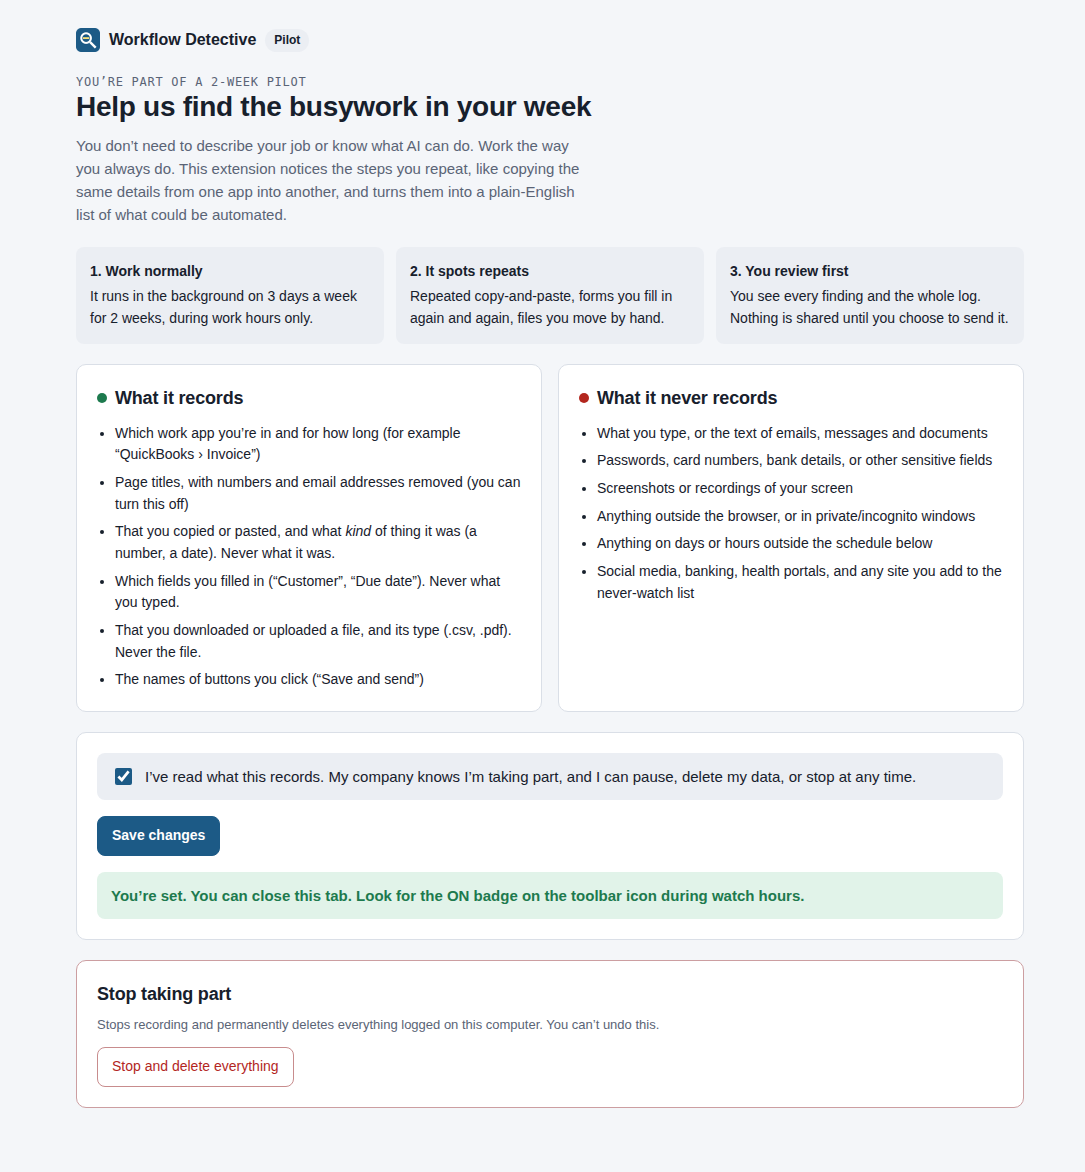
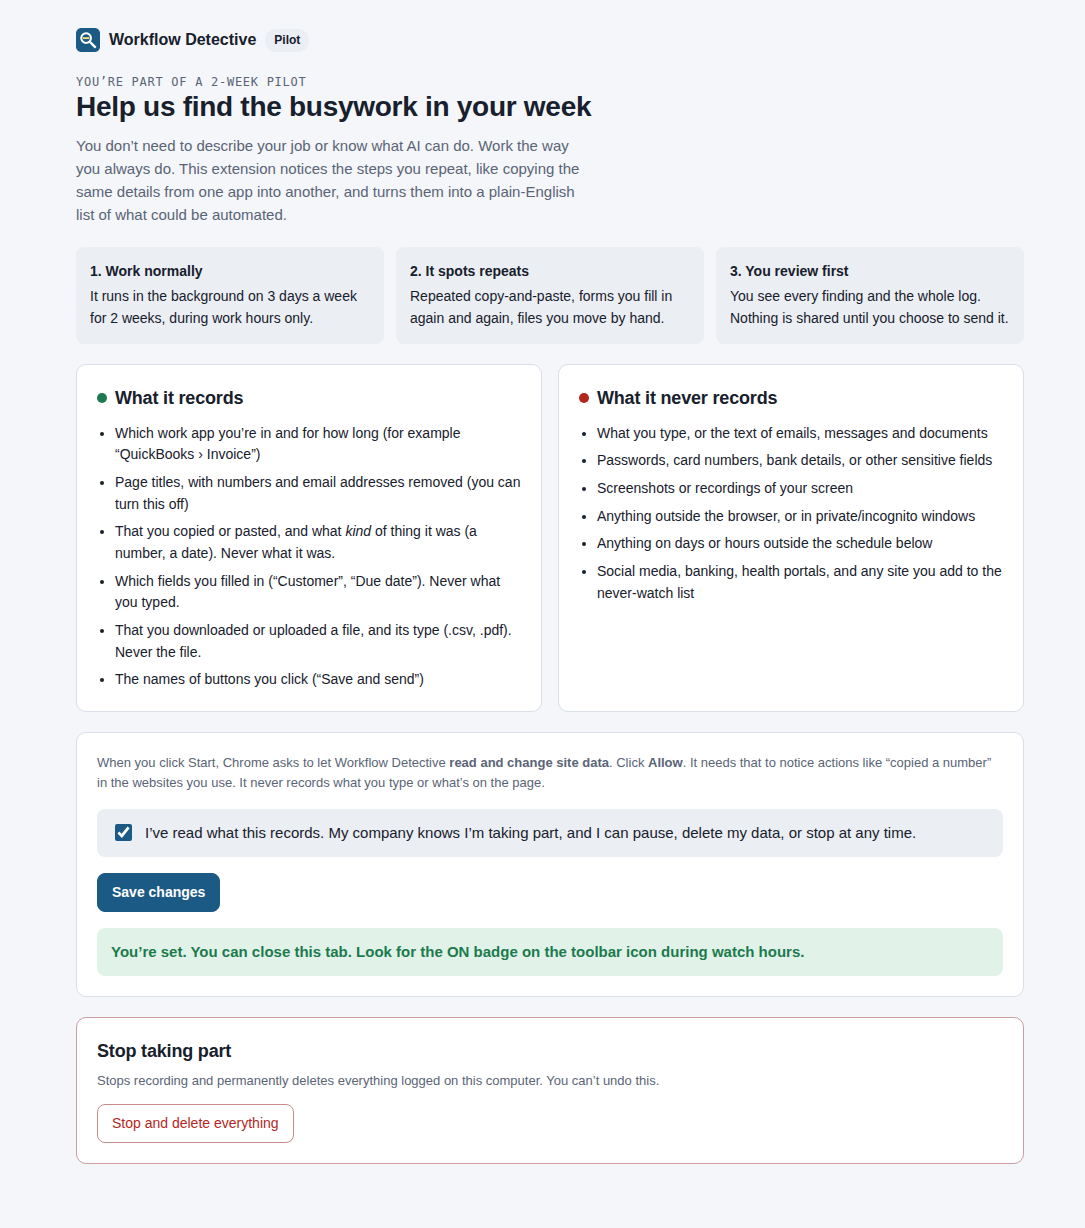
Extension 0.3.0: ask for website access at Start instead of at install
The Chrome Web Store flagged broad host permissions for in-depth review. The
extension now installs with access to the pilot's setup page only, and asks
for access to other sites (optional host permissions) when the participant
clicks Start the study. If access is declined or removed, the icon shows a
red ! and the popup offers to allow it.

Claude-Session: https://claude.ai/code/session_01U78aBsdTCyoXJNvWY7dBA2

diff --git a/test/e2e.js b/test/e2e.js
@@ -5,7 +5,13 @@
 const { chromium } = require("playwright");
 const http = require("http"), fs = require("fs"), path = require("path"), os = require("os");
 
-const EXT = path.resolve(__dirname, "../extension");
+const EXT_SRC = path.resolve(__dirname, "../extension");
+// Chrome's "Allow access to all sites" prompt can't be clicked in automation, so the test runs a copy of the extension
+// whose manifest already has that access (as if the participant clicked Allow). The shipped manifest is checked below.
+const EXT = fs.mkdtempSync(path.join(os.tmpdir(), "wd-ext-"));
+fs.cpSync(EXT_SRC, EXT, { recursive: true });
+{ const m = JSON.parse(fs.readFileSync(path.join(EXT, "manifest.json"), "utf8")); m.host_permissions = m.host_permissions.concat(m.optional_host_permissions); fs.writeFileSync(path.join(EXT, "manifest.json"), JSON.stringify(m)); }
+const SHIPPED = JSON.parse(fs.readFileSync(path.join(EXT_SRC, "manifest.json"), "utf8"));
 const SITE = path.resolve(__dirname, "site");
 const SECRET = "TYPED-SECRET-9431";
 const results = []; const ok = (name, cond, extra) => { results.push([cond ? "✓" : "✗", name, extra || ""]); };
@@ -35,6 +41,11 @@ const server = http.createServer((req, res) => {
     if (!sw) sw = await ctx.waitForEvent("serviceworker", { timeout: 15000 });
     const id = new URL(sw.url()).host;
     ok("extension loads and its background worker starts", !!id, id);
+    const broad = x => /^(\*|<all_urls>|https?:\/\/\*\/)/.test(x) || x.startsWith("*://*/");
+    ok("shipped manifest: no access to every site at install, only the pilot's setup page", !SHIPPED.host_permissions.some(broad) && !SHIPPED.content_scripts.some(c => c.matches.some(broad)) && SHIPPED.optional_host_permissions.some(broad), JSON.stringify(SHIPPED.host_permissions));
+    await new Promise(r => setTimeout(r, 800));
+    const reg = await sw.evaluate(async () => (await chrome.scripting.getRegisteredContentScripts()).map(c => c.id));
+    ok("once website access is allowed, the page script is registered for all sites", reg.includes("wd-sites"), JSON.stringify(reg));
 
     // 1. onboarding opens on install; complete it through the real form
     let ob = ctx.pages().find(p => p.url().includes("onboarding.html"));
@@ -55,6 +66,7 @@ const server = http.createServer((req, res) => {
     await ob.bringToFront();
     const prev = await ob.textContent("#preview");
     ok("schedule preview lists the watch days", /watch days/.test(prev), prev.slice(0, 80));
+    ok("setup explains Chrome's website-access prompt before Start", await ob.isVisible("#accessNote") && /Allow/.test(await ob.textContent("#accessNote")));
     await ob.check("#consent");
     await ob.click("#save");
     await ob.waitForSelector("#saved:not([hidden])", { timeout: 5000 });
@@ -156,6 +168,25 @@ const server = http.createServer((req, res) => {
     await rep.bringToFront(); await rep.reload(); await rep.waitForSelector("#tiles .tile");
     await rep.setViewportSize({ width: 1100, height: 900 });
     await ob.bringToFront(); await ob.setViewportSize({ width: 1100, height: 900 }); await ob.screenshot({ path: path.resolve(__dirname, "../samples/onboarding.png"), fullPage: true });
+    await ctx.close();
+
+    // 2. the shipped extension as installed from the store, before the participant clicks Allow
+    const ctx2 = await chromium.launchPersistentContext(fs.mkdtempSync(path.join(os.tmpdir(), "wd-e2e2-")), {
+      headless: false, args: [`--disable-extensions-except=${EXT_SRC}`, `--load-extension=${EXT_SRC}`]
+    });
+    try {
+      let [sw2] = ctx2.serviceWorkers();
+      if (!sw2) sw2 = await ctx2.waitForEvent("serviceworker", { timeout: 15000 });
+      const id2 = new URL(sw2.url()).host;
+      await new Promise(r => setTimeout(r, 800));
+      const before = await sw2.evaluate(async () => ({ all: await chrome.permissions.contains({ origins: ["https://example.com/*"] }), setup: await chrome.permissions.contains({ origins: ["https://tejas957.github.io/*"] }), reg: (await chrome.scripting.getRegisteredContentScripts()).length }));
+      ok("shipped extension installs with access to the setup page only", !before.all && before.setup && before.reg === 0, JSON.stringify(before));
+      await sw2.evaluate(async () => { const { settings } = await chrome.storage.local.get("settings"); await chrome.storage.local.set({ settings: Object.assign({}, settings, { consented: true, startDate: "2026-10-12" }) }); });
+      await new Promise(r => setTimeout(r, 800));
+      ok("set up without website access → red ! on the toolbar icon", (await sw2.evaluate(() => chrome.action.getBadgeText({}))) === "!");
+      const pop2 = await ctx2.newPage(); await pop2.goto(`chrome-extension://${id2}/popup.html`); await pop2.waitForTimeout(500);
+      ok("…and the popup offers ‘Allow website access’", await pop2.isVisible("#access") && await pop2.isVisible("#allow"));
+    } finally { await ctx2.close(); }
   } catch (e) {
     ok("test ran without crashing", false, e.stack);
   } finally {

diff --git a/extension/background.js b/extension/background.js
@@ -110,6 +110,30 @@ async function takeInvite(code) {
   if (open.length) await chrome.tabs.update(open[0].id, { active: true });
   else await chrome.tabs.create({ url });
 }
+/* ---------- website access ----------
+   The extension installs with access to the pilot's setup page only. Access to the sites people work in is asked for
+   when they click "Start the study" (Chrome shows its own Allow prompt). Once allowed, the page script is registered
+   for every site, and removed again if access is taken away. */
+const ALL_SITES = { origins: ["http://*/*", "https://*/*"] };
+const SETUP_PAGE = "https://tejas957.github.io/*";
+async function hasSiteAccess() { try { return await chrome.permissions.contains(ALL_SITES); } catch { return false; } }
+async function syncSiteAccess() {
+  try {
+    const has = await hasSiteAccess();
+    const reg = await chrome.scripting.getRegisteredContentScripts({ ids: ["wd-sites"] });
+    if (has && !reg.length) {
+      await chrome.scripting.registerContentScripts([{ id: "wd-sites", matches: ALL_SITES.origins, excludeMatches: [SETUP_PAGE],
+        js: ["content.js"], allFrames: true, runAt: "document_idle", persistAcrossSessions: true }]);
+      injectIntoOpenTabs();
+    } else if (!has && reg.length) {
+      await chrome.scripting.unregisterContentScripts({ ids: ["wd-sites"] });
+    }
+  } catch {}
+  updateBadge();
+}
+chrome.permissions.onAdded.addListener(syncSiteAccess);
+chrome.permissions.onRemoved.addListener(syncSiteAccess);
+
 // Content scripts don't run in tabs that were already open at install, so add them (the setup page tab included).
 async function injectIntoOpenTabs() {
   try {
@@ -120,7 +144,13 @@ async function injectIntoOpenTabs() {
 
 /* ---------- badge, retention, install ---------- */
 async function updateBadge() {
-  const st = status(await settings());
+  const s = await settings(), st = status(s);
+  if (s.consented && !s.withdrawn && !(await hasSiteAccess())) {   // set up, but website access was declined or removed
+    await chrome.action.setBadgeText({ text: "!" });
+    await chrome.action.setBadgeBackgroundColor({ color: "#B3261E" });
+    await chrome.action.setTitle({ title: "Workflow Detective needs website access. Click to fix." });
+    return;
+  }
   const on = st.state === "active";
   await chrome.action.setBadgeText({ text: on ? "ON" : st.state === "paused" ? "II" : "" });
   await chrome.action.setBadgeBackgroundColor({ color: on ? "#1D7A4E" : "#93570A" });
@@ -136,7 +166,7 @@ async function retention() {
 chrome.alarms.onAlarm.addListener(a => { if (a.name === "tick") { updateBadge(); retention(); } });
 chrome.runtime.onInstalled.addListener(({ reason }) => {
   chrome.alarms.create("tick", { periodInMinutes: 5 });
-  updateBadge();
+  syncSiteAccess();
   if (reason === "install") { chrome.tabs.create({ url: chrome.runtime.getURL("onboarding.html") }); injectIntoOpenTabs(); }
 });
-chrome.runtime.onStartup.addListener(() => { chrome.alarms.create("tick", { periodInMinutes: 5 }); updateBadge(); });
+chrome.runtime.onStartup.addListener(() => { chrome.alarms.create("tick", { periodInMinutes: 5 }); syncSiteAccess(); });

diff --git a/site/guide.html b/site/guide.html
@@ -117,7 +117,7 @@ footer{font-size:14px;color:var(--muted);border-top:1px solid var(--line);paddin
     <ol class="steps">
       <li><b>Open the link</b> on their work computer.</li>
       <li><b>Click the big button.</b> Either <i>Add to Chrome/Edge</i> (for work done in websites) or <i>Download for Windows/Mac</i> (for programs like Outlook and Excel), sometimes both. The page explains any warning their computer shows along the way.</li>
-      <li><b>Read what it records</b>, tick <b>I agree</b>, and click <b>Start the study</b>. Their details are already filled in.</li>
+      <li><b>Read what it records</b>, tick <b>I agree</b>, and click <b>Start the study</b>. Their details are already filled in. With the browser extension, Chrome or Edge then asks them to allow access to websites, and they click <b>Allow</b>.</li>
       <li><b>Work as usual</b> for two weeks. A small magnifying-glass icon shows it’s running, and they can pause it any time.</li>
       <li><b>On the last day</b>, they open <i>My findings</i> with us, confirm which findings are right, and choose whether to send us the results file.</li>
     </ol>
@@ -156,7 +156,7 @@ footer{font-size:14px;color:var(--muted);border-top:1px solid var(--line);paddin
     <div class="tbl"><table>
       <thead><tr><th>Version</th><th>What gets installed</th><th>Admin rights</th><th>Network</th></tr></thead>
       <tbody>
-        <tr><td><b>Browser extension</b><br><span style="color:var(--muted);font-size:14px">Chrome or Edge</span></td><td>An unlisted extension from the Chrome Web Store. Can be force-installed by policy (<code>ExtensionInstallForcelist</code>).</td><td>No</td><td>None. It never sends data anywhere.</td></tr>
+        <tr><td><b>Browser extension</b><br><span style="color:var(--muted);font-size:14px">Chrome or Edge</span></td><td>An unlisted extension from the Chrome Web Store. It can only see the pilot’s setup page until the participant clicks <b>Start the study</b> and allows website access. Can be force-installed by policy (<code>ExtensionInstallForcelist</code>).</td><td>No</td><td>None. It never sends data anywhere.</td></tr>
         <tr><td><b>Windows app</b><br><span style="color:var(--muted);font-size:14px">Windows 10/11</span></td><td>One program in the user’s own folder (<code>%LOCALAPPDATA%\Programs\WorkflowDetective</code>), a Start menu shortcut, and a sign-in startup entry for the current user. Uses the .NET Framework already on Windows.</td><td>No</td><td>None outside the computer. It shows its pages through a local address (127.0.0.1) only that user can open.</td></tr>
         <tr><td><b>Mac app</b><br><span style="color:var(--muted);font-size:14px">macOS 12 or newer</span></td><td>An app in Applications, set to open at login. Asks for the Accessibility permission (to read window titles and field names).</td><td>No</td><td>None.</td></tr>
       </tbody>

diff --git a/extension/onboarding.js b/extension/onboarding.js
@@ -2,6 +2,9 @@ import { getSettings, saveSettings, DEFAULT_BLOCKED, nextMonday, isoDate, allWat
 import { clearAll } from "./lib/db.js";
 
 const $ = id => document.getElementById(id);
+// Browser extension only: access to the websites people work in is asked for when they click Start.
+const ALL_SITES = { origins: ["http://*/*", "https://*/*"] };
+const needsSiteAccess = () => window.WD_PLATFORM !== "desktop" && !!(window.chrome && chrome.permissions && chrome.permissions.request);
 // Same page serves the browser extension and the Windows app; swap the few lines that differ.
 if (window.WD_PLATFORM === "desktop") {
   document.querySelectorAll("[data-for]").forEach(el => { el.hidden = el.dataset.for !== "desktop"; });
@@ -72,6 +75,8 @@ function preview() {
     $("consent").checked = true;
     $("save").textContent = "Save changes";
     $("stopCard").hidden = false;
+    if (needsSiteAccess() && !(await chrome.permissions.contains(ALL_SITES).catch(() => true)))
+      $("msg").textContent = "Website access is off, so nothing in websites is being noticed. Click Save changes and choose Allow.";
   } else {
     // New participant: lead with the invite code; the full form stays folded away.
     $("inviteBox").hidden = false;
@@ -144,6 +149,11 @@ $("form").addEventListener("submit", async e => {
   if (!f.participant) { if (invited) { $("nameOnly").hidden = false; $("participantQuick").focus(); } else { $("details").hidden = false; $("participant").focus(); } $("msg").textContent = "Please add your name."; return; }
   if (f.hourEnd <= f.hourStart) { $("msg").textContent = "The end time has to be after the start time."; return; }
   if (!$("consent").checked) { $("msg").textContent = "Please read and tick the consent box first."; return; }
+  if (needsSiteAccess()) {
+    // must be the first await, while Chrome still counts this as the participant's click
+    const ok = await chrome.permissions.request(ALL_SITES).catch(() => false);
+    if (!ok) { $("msg").textContent = "Chrome needs your OK to see which websites you work in. Click the button again and choose Allow."; return; }
+  }
   const cur = await getSettings();
   await saveSettings(Object.assign(f, { consented: true, withdrawn: false, consentedAt: cur.consentedAt || Date.now() }));
   $("msg").textContent = "";

diff --git a/extension/popup.js b/extension/popup.js
@@ -2,6 +2,7 @@ import { getSettings, saveSettings, status } from "./lib/settings.js";
 import { countSince } from "./lib/db.js";
 
 const $ = id => document.getElementById(id);
+const ALL_SITES = { origins: ["http://*/*", "https://*/*"] };
 let host = null;
 
 async function render() {
@@ -20,6 +21,8 @@ async function render() {
   $("pause").disabled = !["active", "paused", "later", "off"].includes(st.state);
   $("report").textContent = st.state === "setup" ? "Set up" : "Open my findings";
   $("block").hidden = !host || st.state === "setup";
+  const access = await chrome.permissions.contains(ALL_SITES).catch(() => true);
+  $("access").hidden = access || !s.consented || s.withdrawn;
   $("host").textContent = host || "";
 }
 
@@ -27,6 +30,7 @@ $("report").addEventListener("click", async () => {
   const s = await getSettings();
   chrome.tabs.create({ url: chrome.runtime.getURL(s.consented ? "report.html" : "onboarding.html") });
 });
+$("allow").addEventListener("click", () => { chrome.permissions.request(ALL_SITES).then(render, render); });
 $("settings").addEventListener("click", () => chrome.tabs.create({ url: chrome.runtime.getURL("onboarding.html") }));
 $("pause").addEventListener("click", async () => {
   const s = await getSettings();

diff --git a/site/index.html b/site/index.html
@@ -211,7 +211,8 @@ footer{font-size:14px;color:var(--muted)}
       '<p class="why">This watches the websites you use. It sets itself up with your details.</p>' +
       '<a class="big" id="addExt" href="' + esc(u.store || "#") + '" target="_blank" rel="noopener">Add to ' + bname + '</a>' +
       '<ol class="then"><li>In the store tab, click <b>Add to ' + bname + '</b>' + (browser === "edge" ? " (if asked, click <b>Allow extensions from other stores</b> first)" : "") + ', then <b>Add extension</b>.</li>' +
-      '<li>A setup page opens with your details already filled in. Tick <b>I agree</b> and click <b>Start the study</b>.</li></ol>' +
+      '<li>A setup page opens with your details already filled in. Tick <b>I agree</b> and click <b>Start the study</b>.</li>' +
+      '<li>When ' + bname + ' asks to let it <b>read and change site data</b>, click <b>Allow</b>. It only notes actions like “copied a number”, never what you type.</li></ol>' +
       '<p class="status" id="extStatus">Waiting for the add-on…</p></li>';
     var mac = kind === "mac";
     var paste = mac ? "<kbd>⌘</kbd><kbd>V</kbd>" : "<kbd>Ctrl</kbd>+<kbd>V</kbd>";

diff --git a/extension/onboarding.html b/extension/onboarding.html
@@ -158,6 +158,7 @@
     </fieldset>
     <label class="field"><b data-desktop="Never watch these apps or sites">Never watch these sites</b><span data-desktop="One per line: an app name (like Spotify) or a website (like reddit.com). Password managers, banking and health are already skipped.">One per line. Social media, banking and health sites are already skipped.</span><textarea id="blocked" spellcheck="false"></textarea></label>
     </div>
+    <p class="small muted" id="accessNote" data-for="browser">When you click Start, Chrome asks to let Workflow Detective <b>read and change site data</b>. Click <b>Allow</b>. It needs that to notice actions like “copied a number” in the websites you use. It never records what you type or what’s on the page.</p>
     <label class="check consent"><input type="checkbox" id="consent" required><span>I’ve read what this records. My company knows I’m taking part, and I can pause, delete my data, or stop at any time.</span></label>
     <div class="row">
       <button class="btn primary" type="submit" id="save">Start the study</button>

diff --git a/extension/popup.html b/extension/popup.html
@@ -11,6 +11,7 @@
   .stack{display:flex;flex-direction:column;gap:8px}
   .stack .btn{width:100%;text-align:left}
   .site{font-family:var(--mono);font-size:12px}
+.access{display:flex;flex-direction:column;gap:8px;background:var(--bad-bg);color:var(--ink);border-radius:8px;padding:10px 12px;margin-bottom:10px}
 </style>
 </head>
 <body>
@@ -24,6 +25,10 @@
   </div>
   <div class="stat"><span class="muted">Actions logged today</span><b id="today" class="tnum">0</b></div>
   <div class="stat"><span class="muted">Watch days finished</span><b id="days" class="tnum">0 of 0</b></div>
+  <div class="access" id="access" hidden>
+    <p class="small"><b>Website access is off.</b> Workflow Detective can’t notice your work in websites until you allow it.</p>
+    <button class="btn primary" id="allow">Allow website access</button>
+  </div>
   <div class="stack" id="actions">
     <button class="btn primary" id="report">Open my findings</button>
     <button class="btn" id="pause">Pause for 1 hour</button>

diff --git a/docs/CHROME_WEB_STORE.md b/docs/CHROME_WEB_STORE.md
@@ -60,7 +60,8 @@ Edge users install from the same Chrome Web Store link. You don't need a separat
 | `downloads` | Notices that a file was downloaded and its type (like .csv), to find "export from one app, upload to another" patterns. The file name and contents are never read. |
 | `alarms` | Checks the study schedule every few minutes, so the extension only watches on study days and during work hours, and deletes data automatically after the study. |
 | `scripting` | Adds the extension's page script to tabs that were already open when it was installed, so the user doesn't have to reload them. |
-| Host permissions (all `http`/`https` sites) | Repetitive work spans whatever web apps a business uses (email, accounting, CRM, spreadsheets), which differ by company, so the extension can't list them in advance. On each page it notices only the shape of actions (a copy happened, a field called "Customer" was filled in), never typed text or page content. Users can block any site. |
+| Host permission `https://tejas957.github.io/*` | The pilot's own setup page. The extension reads the participant's invite code there so its setup fills itself in, and tells the page that it's installed. |
+| Optional host permissions (`http`/`https` sites), asked at consent | Not granted at install. When the participant ticks consent and clicks "Start the study", the extension asks for access with Chrome's own prompt. It needs it because repetitive work spans whatever web apps a business uses (email, accounting, CRM, spreadsheets), which differ by company, so the sites can't be listed in advance. On each page it notices only the shape of actions (a copy happened, a field called "Customer" was filled in), never typed text or page content. Users can block any site, and removing the access stops all page observation. |
 
 **Remote code:** No, I am not using remote code.
 
@@ -74,6 +75,10 @@ Then tick all three certifications:
 - I do not use or transfer user data to determine creditworthiness or for lending purposes.
 
 **Privacy policy URL:** https://tejas957.github.io/workflow-detective/site/privacy.html
+
+## If the dashboard warns about "Broad Host Permissions"
+
+Version 0.3.0 and later shouldn't trigger this warning: the extension installs with access to the setup page only, and asks for access to other sites when the participant clicks **Start the study**. If you still see it, submit anyway. It means a longer, in-depth review, not a rejection, and the justifications above answer it.
 
 ## If review asks questions
 

diff --git a/docs/guides/browser-extension.md b/docs/guides/browser-extension.md
@@ -9,8 +9,9 @@
 2. Click **Add to Chrome** (or **Add to Edge**). In the store tab, click **Add to Chrome** (or **Get**), then **Add extension**.
    *In Edge:* if asked, click **Allow extensions from other stores** first.
 3. A setup page opens with **your details already filled in**. Read **What it records** and **What it never records**.
-4. Tick **I agree** and click **Start the study**. Your personal link page now shows **Added and set up ✓**.
-5. Optional: pin the icon so you can see it. Click the puzzle-piece icon in the toolbar, then the pin next to **Workflow Detective**.
+4. Tick **I agree** and click **Start the study**.
+5. Chrome (or Edge) asks to let Workflow Detective **read and change site data**. Click **Allow**. It needs this to notice actions like "copied a number" in the websites you use. It never records what you type or what's on the page. Your personal link page now shows **Added and set up ✓**.
+6. Optional: pin the icon so you can see it. Click the puzzle-piece icon in the toolbar, then the pin next to **Workflow Detective**.
 
 **Details didn't fill in?** Copy the code from your email (it starts with `WD1.`) and paste it into the box on the setup page. If you don't have a code, click **Fill in the details yourself** and enter the company code, your name, and the start date from the pilot team.
 
